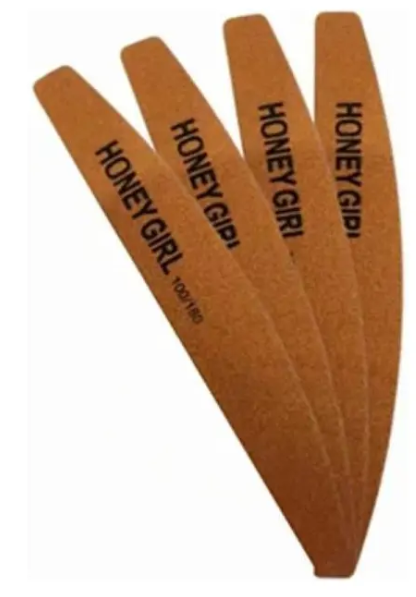
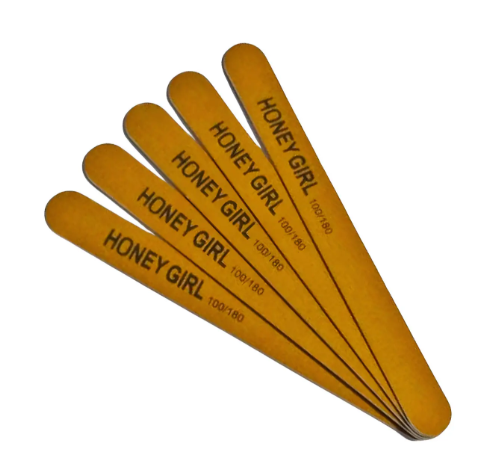
novos produtos

diff --git a/produtos/index.html b/produtos/index.html
@@ -38,15 +38,8 @@
           <a class="whatsapp-button product-link" href="https://meli.la/1aY7Vwt" target="_blank" rel="noopener">Ver produto no Mercado Livre <span aria-hidden="true">&#8594;</span></a>
         </div>
       </article>
-      <article class="product-card">
-        <div class="product-visual"><img src="../assets/images/envelope.png" alt="Envelope para esterilização auto selante"><span class="product-count">200 un.</span></div>
-        <div class="product-info">
-          <span class="product-label">Material para nail designers</span>
-          <h2 id="products-title">Envelope para Esterilização</h2>
-          <p>Envelope auto selante 9x23 cm para esterilização, com 200 unidades e registro Anvisa informado no anúncio.</p>
-          <a class="whatsapp-button product-link" href="https://meli.la/1pt6i7C" target="_blank" rel="noopener">Ver produto no Mercado Livre <span aria-hidden="true">&#8594;</span></a>
-        </div>
-      </article>
+
+
 
     <article class="product-card">
         <div class="product-visual"><img src="../assets/images/lixa.png" alt="Lixa Mini Buffer"><span class="product-count">10 un.</span></div>
@@ -58,12 +51,12 @@
         </div>
       </article>
         <article class="product-card">
-        <div class="product-visual"><img src="../assets/images/lixa02.png" alt="Lixas Boomerang Marrom Fina Honey "><span class="product-count">10 un.</span></div>
+        <div class="product-visual"><img src="../assets/images/lixa02.png" alt="Lixas Reta Fina Honey Girl Marrom "><span class="product-count">10 un.</span></div>
         <div class="product-info">
           <span class="product-label">Material para nail designers</span>
-          <h2 id="products-title">Lixas Boomerang Marrom Fina Honey</h2>
-          <p>10 Lixas Boomerang Marrom Fina Honey Girl Unha Gel 100/180,</p>
-          <a class="whatsapp-button product-link" href="https://meli.la/2Aj976E" target="_blank" rel="noopener">Ver produto no Mercado Livre <span aria-hidden="true">&#8594;</span></a>
+          <h2 id="products-title">Lixas Reta Fina Honey Girl Marrom</h2>
+          <p>10 Lixas Reta Fina Honey Girl Marrom Para Unha Gel 100/180</p>
+          <a class="whatsapp-button product-link" href="https://meli.la/2x6vf95" target="_blank" rel="noopener">Ver produto no Mercado Livre <span aria-hidden="true">&#8594;</span></a>
         </div>
       </article>
 
@@ -78,13 +71,25 @@
         </div>
       </article>
 
-      <article class="product-card">
-        <div class="product-visual"><img src="../assets/images/scott.png" alt="Pano Reutilizável Scott Duramax "><span class="product-count">03 UN.</span></div>
+
+<article class="product-card">
+        <div class="product-visual"><img src="../assets/images/esmalte.png" alt="Apoio Mão Manicure Nail Designer "><span class="product-count">01 UN.</span></div>
         <div class="product-info">
           <span class="product-label">Material para nail designers</span>
-          <h2 id="products-title">Pano Reutilizável Scott Duramax</h2>
-          <p>Pano Reutilizável Scott Duramax c/3unid c/ 174 toalhas.</p>
-          <a class="whatsapp-button product-link" href="https://meli.la/2bConT4" target="_blank" rel="noopener">Ver produto no Mercado Livre <span aria-hidden="true">&#8594;</span></a>
+          <h2 id="products-title">Esmalte Em Gel Natural Allsmile</h2>
+          <p>Esmalte Em Gel 10ml Linha Natural Allsmile - Real Love.</p>
+          <a class="whatsapp-button product-link" href="https://meli.la/2uG3hUN" target="_blank" rel="noopener">Ver produto no Mercado Livre <span aria-hidden="true">&#8594;</span></a>
+        </div>
+      </article>
+
+
+            <article class="product-card">
+        <div class="product-visual"><img src="../assets/images/esmalte02.png" alt="Esmalte Em Gel Dafu "><span class="product-count">01 UN.</span></div>
+        <div class="product-info">
+          <span class="product-label">Material para nail designers</span>
+          <h2 id="products-title">Esmalte Em Gel Dafu</h2>
+          <p>Esmalte Em Gel Dafu 12ml Lançamento Glamour Alta Pigmentação.</p>
+          <a class="whatsapp-button product-link" href="https://meli.la/2yeMigU" target="_blank" rel="noopener">Ver produto no Mercado Livre <span aria-hidden="true">&#8594;</span></a>
         </div>
       </article>
 
@@ -132,30 +137,6 @@
         </div>
       </article>
 
-
-
-      <article class="product-card">
-        <div class="product-visual"><img src="../assets/images/esmalte.png" alt="Apoio Mão Manicure Nail Designer "><span class="product-count">01 UN.</span></div>
-        <div class="product-info">
-          <span class="product-label">Material para nail designers</span>
-          <h2 id="products-title">Esmalte Em Gel Natural Allsmile</h2>
-          <p>Esmalte Em Gel 10ml Linha Natural Allsmile - Real Love.</p>
-          <a class="whatsapp-button product-link" href="https://meli.la/2uG3hUN" target="_blank" rel="noopener">Ver produto no Mercado Livre <span aria-hidden="true">&#8594;</span></a>
-        </div>
-      </article>
-
-
-            <article class="product-card">
-        <div class="product-visual"><img src="../assets/images/esmalte02.png" alt="Esmalte Em Gel Dafu "><span class="product-count">01 UN.</span></div>
-        <div class="product-info">
-          <span class="product-label">Material para nail designers</span>
-          <h2 id="products-title">Esmalte Em Gel Dafu</h2>
-          <p>Esmalte Em Gel Dafu 12ml Lançamento Glamour Alta Pigmentação.</p>
-          <a class="whatsapp-button product-link" href="https://meli.la/2yeMigU" target="_blank" rel="noopener">Ver produto no Mercado Livre <span aria-hidden="true">&#8594;</span></a>
-        </div>
-      </article>
-
-
       
             <article class="product-card">
         <div class="product-visual"><img src="../assets/images/motor.png" alt="Micro Motor Talmax Champion Silver Marathon "><span class="product-count">01 UN.</span></div>
@@ -166,6 +147,75 @@
           <a class="whatsapp-button product-link" href="https://meli.la/2za8eta" target="_blank" rel="noopener">Ver produto no Mercado Livre <span aria-hidden="true">&#8594;</span></a>
         </div>
       </article>
+
+       <article class="product-card">
+        <div class="product-visual"><img src="../assets/images/cabine.png" alt="Cabine LED UV Sun Nails Sun 50 "><span class="product-count">01 UN.</span></div>
+        <div class="product-info">
+          <span class="product-label">Material para nail designers</span>
+          <h2 id="products-title">Cabine LED UV Sun Nails Sun 50</h2>
+          <p>Cabine LED UV Sun Nails Sun 50 48W Branco com Sensor Temporizador.</p>
+          <a class="whatsapp-button product-link" href="https://meli.la/2boDp1Q" target="_blank" rel="noopener">Ver produto no Mercado Livre <span aria-hidden="true">&#8594;</span></a>
+        </div>
+      </article>
+
+
+             <article class="product-card">
+        <div class="product-visual"><img src="../assets/images/luminaria.png" alt="Luminária Led Ring Light "><span class="product-count">01 UN.</span></div>
+        <div class="product-info">
+          <span class="product-label">Material para nail designers</span>
+          <h2 id="products-title">Luminária Led Ring Light</h2>
+          <p>Luminária Led Ring Light Meia Lua.</p>
+          <a class="whatsapp-button product-link" href="https://meli.la/1brNHXG" target="_blank" rel="noopener">Ver produto no Mercado Livre <span aria-hidden="true">&#8594;</span></a>
+        </div>
+      </article>
+
+
+    <article class="product-card">
+        <div class="product-visual"><img src="../assets/images/coletor.png" alt="Coletor Pó Unha Real Love "><span class="product-count">01 UN.</span></div>
+        <div class="product-info">
+          <span class="product-label">Material para nail designers</span>
+          <h2 id="products-title">Coletor Pó Unha Real Love</h2>
+          <p>Coletor Pó Unha Real Love 120 W Silencioso C/filtro AS-01</p>
+          <a class="whatsapp-button product-link" href="https://meli.la/1Tpo9Dj" target="_blank" rel="noopener">Ver produto no Mercado Livre <span aria-hidden="true">&#8594;</span></a>
+        </div>
+      </article>
+
+      <article class="product-card">
+        <div class="product-visual"><img src="../assets/images/scott.png" alt="Pano Reutilizável Scott Duramax "><span class="product-count">03 UN.</span></div>
+        <div class="product-info">
+          <span class="product-label">Material para nail designers</span>
+          <h2 id="products-title">Pano Reutilizável Scott Duramax</h2>
+          <p>Pano Reutilizável Scott Duramax c/3unid c/ 174 toalhas.</p>
+          <a class="whatsapp-button product-link" href="https://meli.la/2bConT4" target="_blank" rel="noopener">Ver produto no Mercado Livre <span aria-hidden="true">&#8594;</span></a>
+        </div>
+      </article>
+
+
+          <article class="product-card">
+        <div class="product-visual"><img src="../assets/images/luva.png" alt="Coletor Pó Unha Real Love "><span class="product-count">100 UN.</span></div>
+        <div class="product-info">
+          <span class="product-label">Material para nail designers</span>
+          <h2 id="products-title">Luva De Procedimento Nitrilica Branca</h2>
+          <p>Luva De Procedimento Nitrilica Branca Sem Pó 100un Unigloves</p>
+          <a class="whatsapp-button product-link" href="https://meli.la/1g8bGUp" target="_blank" rel="noopener">Ver produto no Mercado Livre <span aria-hidden="true">&#8594;</span></a>
+        </div>
+      </article>
+
+            <article class="product-card">
+        <div class="product-visual"><img src="../assets/images/envelope.png" alt="Envelope para esterilização auto selante"><span class="product-count">200 un.</span></div>
+        <div class="product-info">
+          <span class="product-label">Material para nail designers</span>
+          <h2 id="products-title">Envelope para Esterilização</h2>
+          <p>Envelope auto selante 9x23 cm para esterilização, com 200 unidades e registro Anvisa informado no anúncio.</p>
+          <a class="whatsapp-button product-link" href="https://meli.la/1pt6i7C" target="_blank" rel="noopener">Ver produto no Mercado Livre <span aria-hidden="true">&#8594;</span></a>
+        </div>
+      </article>
+
+
+
+      
+      
+     
 
 
 
